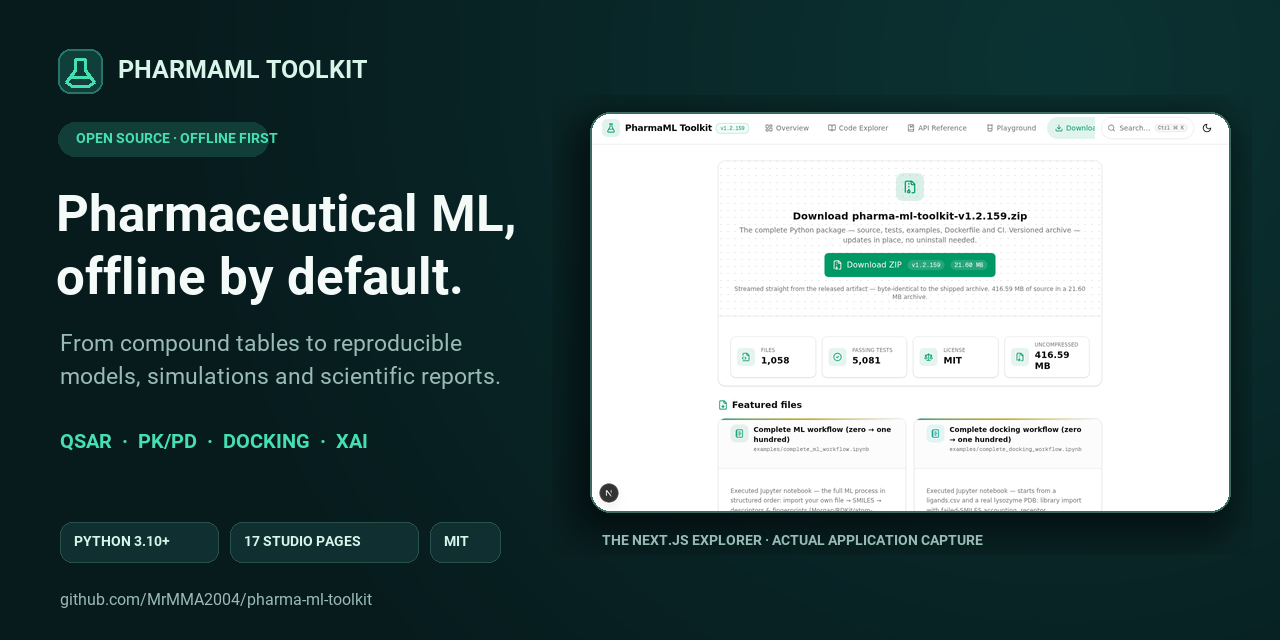
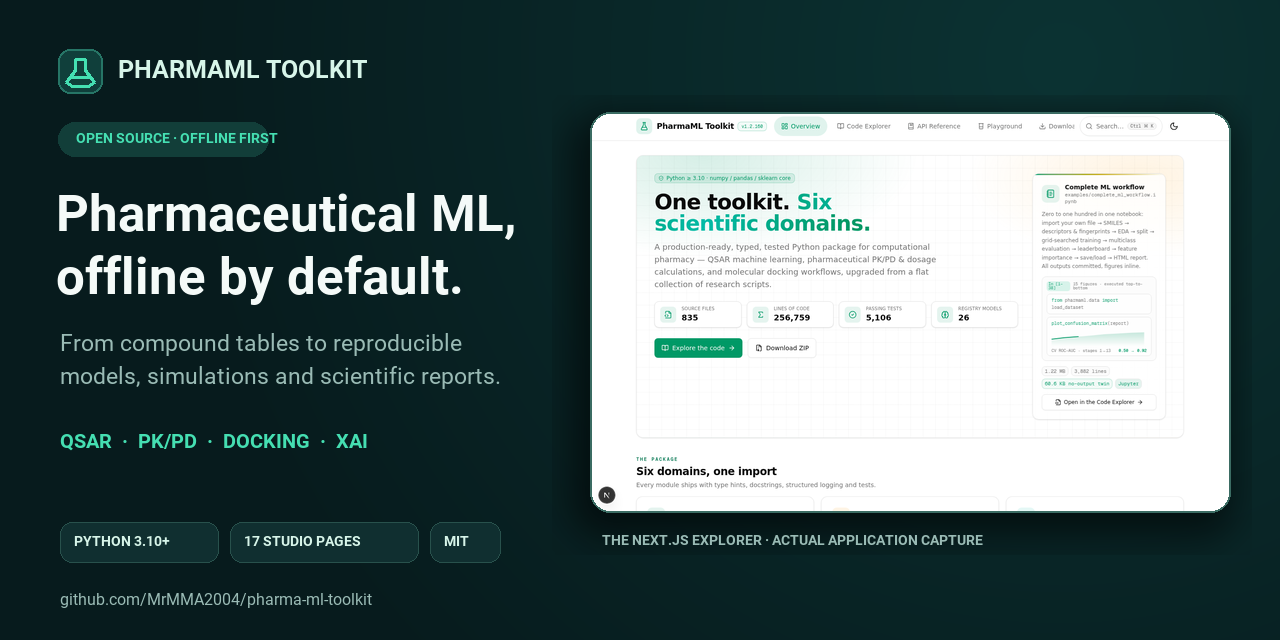
docs: sync GitHub page with v1.2.160

diff --git a/scripts/build_social_preview.py b/scripts/build_social_preview.py
@@ -6,7 +6,7 @@ Run from the repository root after installing Pillow::
     python scripts/build_social_preview.py
 
 The source screenshot is not synthesized or relabelled: it is the verified
-v1.2.159 browser capture copied to ``pharma-ml-toolkit/docs/assets/``.
+browser capture for the current ``VERSION`` under ``pharma-ml-toolkit/docs/assets/``.
 """
 
 from __future__ import annotations
@@ -17,7 +17,8 @@ from pathlib import Path
 from PIL import Image, ImageDraw, ImageFilter, ImageFont
 
 ROOT = Path(__file__).resolve().parents[1]
-SOURCE = ROOT / "pharma-ml-toolkit/docs/assets/web-console-v1.2.159.png"
+VERSION = (ROOT / "pharma-ml-toolkit/VERSION").read_text(encoding="utf-8").strip()
+SOURCE = ROOT / f"pharma-ml-toolkit/docs/assets/web-console-v{VERSION}.png"
 OUTPUT = ROOT / "pharma-ml-toolkit/docs/assets/github-social-preview.png"
 ROBOTO = Path(os.environ.get("PHARMAML_ROBOTO_DIR", "/usr/share/fonts/truetype/roboto"))
 DEJAVU = Path("/usr/share/fonts/truetype/dejavu")

diff --git a/README.md b/README.md
@@ -39,11 +39,11 @@ PharmaML brings the repetitive parts of a computational-pharmacology workflow in
 | **Desktop & web interfaces** | Explore the same package through the 17-page PharmaML Studio or browse code, APIs, notebooks and downloads in the included web console. |
 
 <p align="center">
-  <a href="pharma-ml-toolkit/docs/assets/web-console-v1.2.159.png">
-    <img src="pharma-ml-toolkit/docs/assets/web-console-v1.2.159.png" width="960" alt="The actual PharmaML v1.2.159 web console showing its verified source download, five thousand eighty-one passing tests and MIT license">
+  <a href="pharma-ml-toolkit/docs/assets/web-console-v1.2.160.png">
+    <img src="pharma-ml-toolkit/docs/assets/web-console-v1.2.160.png" width="960" alt="The actual PharmaML v1.2.160 web console showing its verified source download, five thousand one hundred six passing tests and MIT license">
   </a>
   <br>
-  <sub>The actual <strong>v1.2.159 Next.js console</strong>: source downloads, executed notebooks, API reference and live package statistics. See also the <a href="pharma-ml-toolkit/examples/chart_readability.py">reproducible PK chart example</a>.</sub>
+  <sub>The actual <strong>v1.2.160 Next.js console</strong>: source downloads, executed notebooks, API reference and live package statistics. See also the <a href="pharma-ml-toolkit/examples/chart_readability.py">reproducible PK chart example</a>.</sub>
 </p>
 
 ## Quick start
@@ -118,12 +118,12 @@ pharma-ml-toolkit/
 
 ## Verification and reproducibility
 
-The [v1.2.159 release record](pharma-ml-toolkit/CHANGELOG.md) reports:
+The [v1.2.160 release record](pharma-ml-toolkit/CHANGELOG.md) reports:
 
-- **5,081 collected pytest and doctest cases**—4,273 tests plus 808 doctests—with all nine verification chunks green;
-- **eight executed notebooks refreshed at v1.2.159**, together with their clean no-output twins;
-- a **1,058-file, 326,049-line** release census; and
-- archive integrity verification for the 22,654,468-byte release ZIP.
+- **5,106 collected pytest and doctest cases**—4,297 tests plus 809 doctests—with all nine verification chunks green;
+- **eight executed notebooks refreshed at v1.2.160**, together with their clean no-output twins;
+- a **1,061-file, 326,899-line** release census; and
+- archive integrity verification for the 22,750,159-byte release ZIP.
 
 The test inventory covers domain calculations, data leakage, notebooks, CLI, visualization, web parity and the seventeen Studio pages. See the [testing guide](pharma-ml-toolkit/README.md#testing), [GUI audit](pharma-ml-toolkit/docs/gui/GUI_AUDIT.md) and [changelog](pharma-ml-toolkit/CHANGELOG.md) for the complete release evidence and reproduction commands.
 
